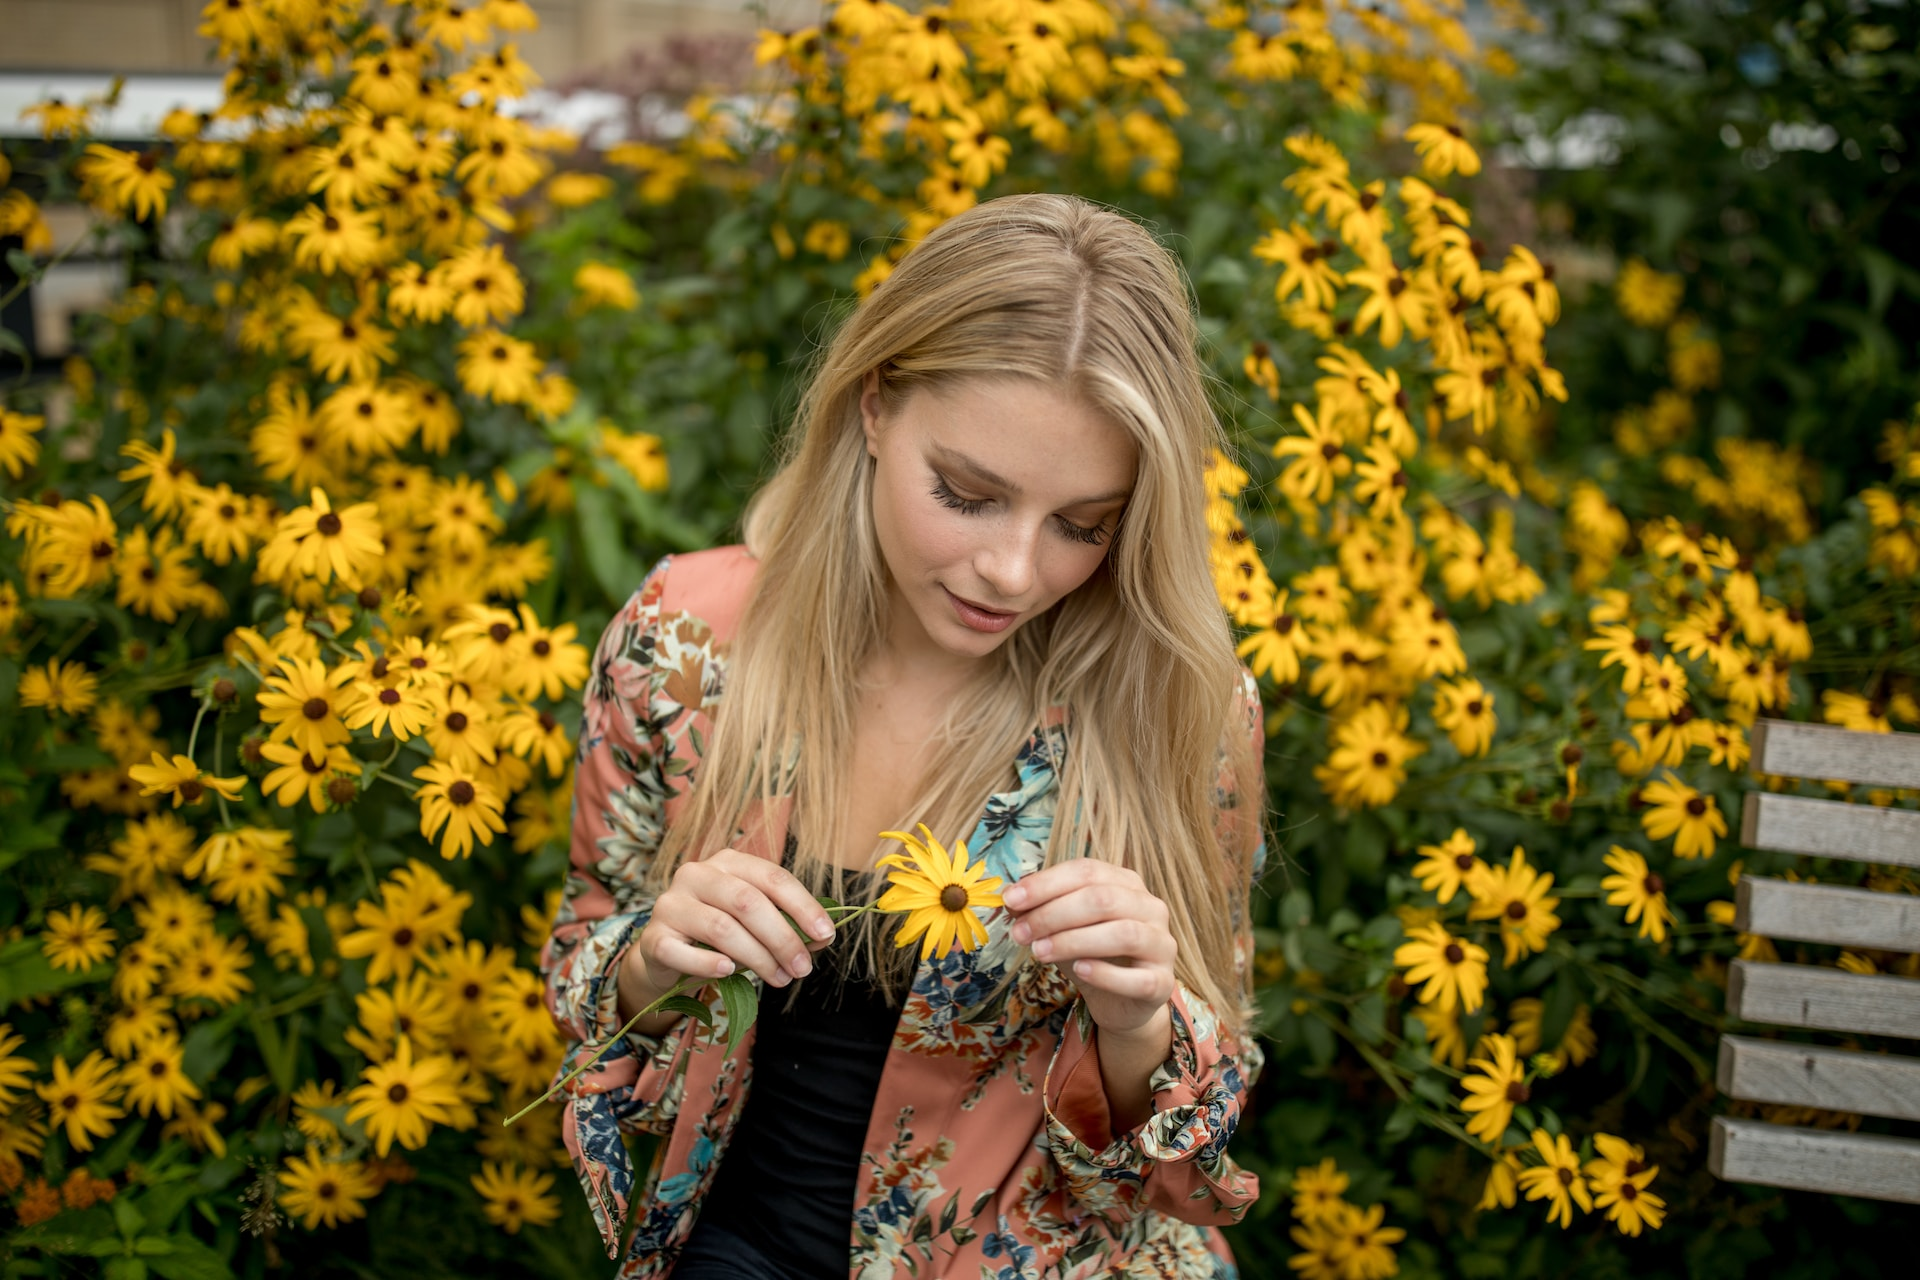
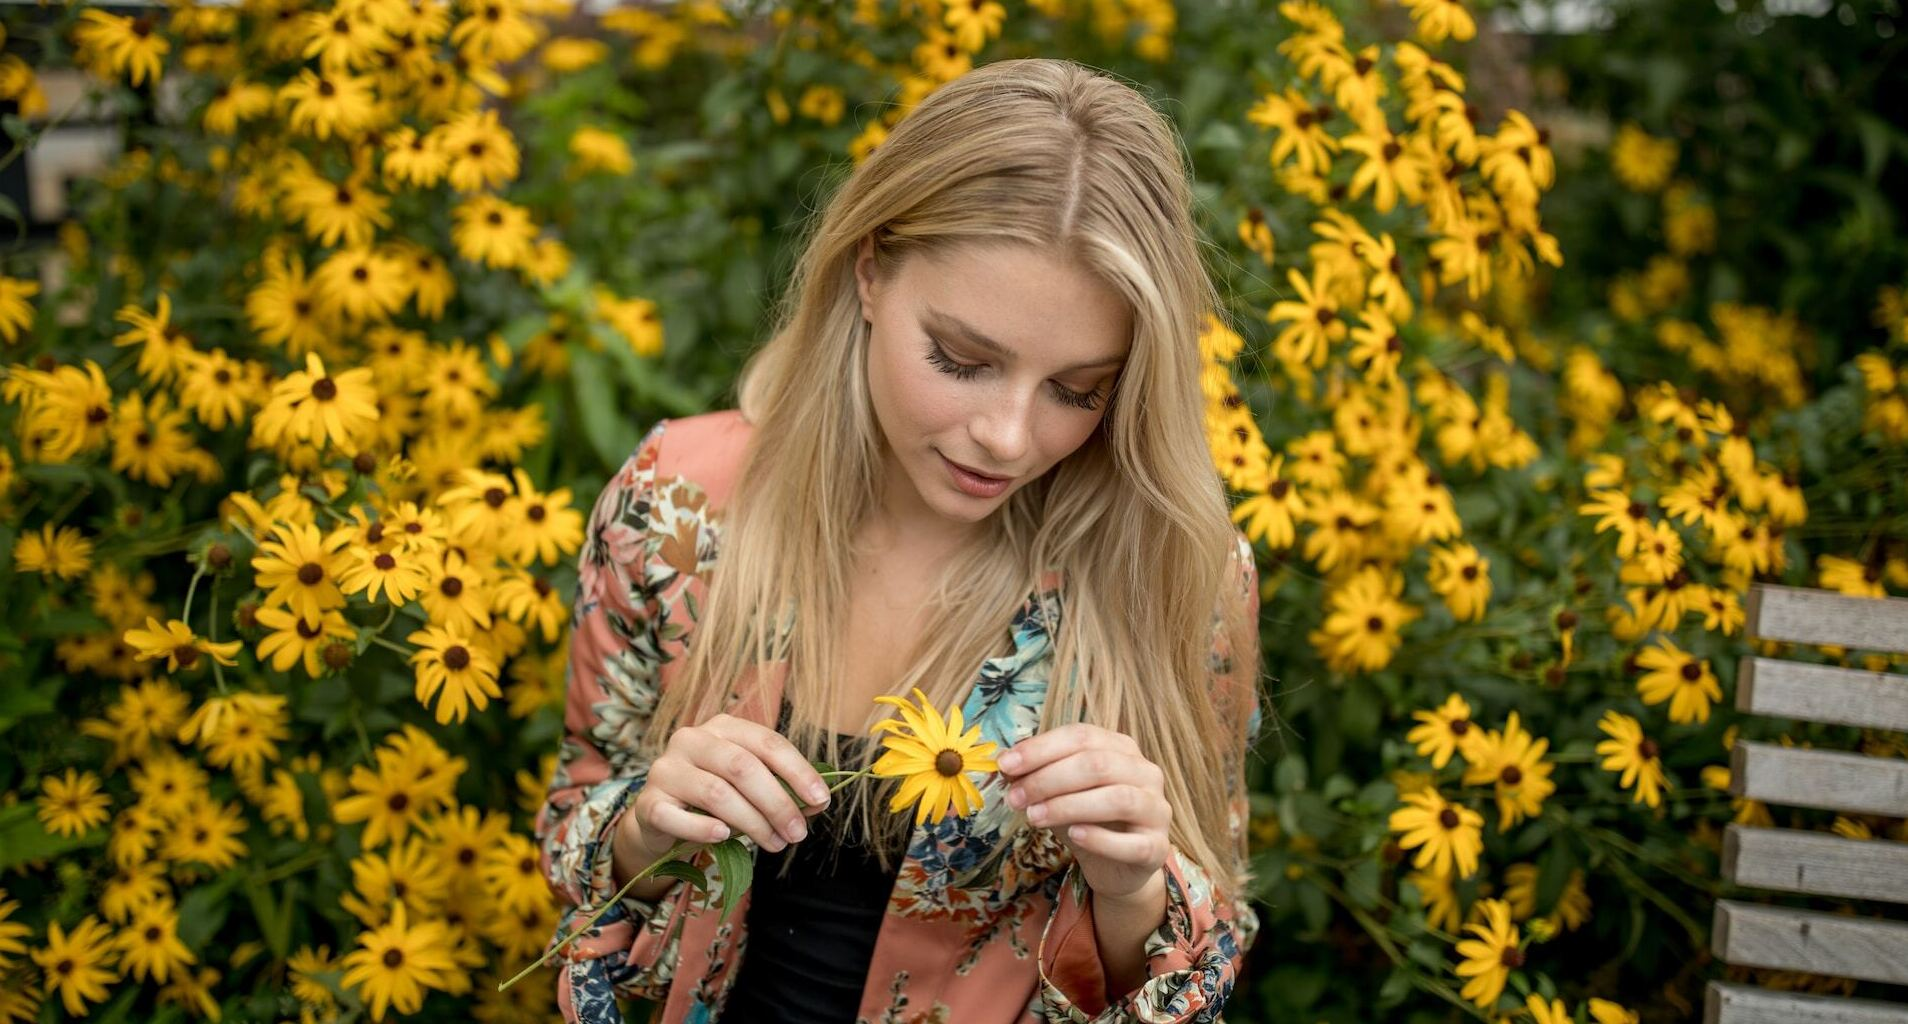
Udacity course post

diff --git a/src/data/blog/secure-coding-for-embedded-systems-udacity/index.md b/src/data/blog/secure-coding-for-embedded-systems-udacity/index.md
@@ -1,0 +1,77 @@
+---
+category: 'blog'
+cover: './cover.jpg'
+title: 'Secure Coding for Embedded Systems'
+description: 'Learn how to build trustworthy products with this'
+date: '2024-11-21'
+tags: ['udacity', 'embedded', 'cybersecurity']
+published: true
+---
+
+<article class="prose lg:prose-lg xl:prose-lg">
+
+I’m proud to announce the release of the Secure Coding for Embedded Systems course on Udacity — a project I had the honor of contributing to as one of the authors, together with Dennis Kengo Oka.
+
+My focus was on some of the most critical and timely areas of embedded system security: Hardening, Supply Chain Risk Management, TLS, and Secure Updates. These aren’t just best practices — they’re quickly becoming regulatory requirements, particularly in light of the European Union’s **Cyber Resilience Act (CRA)** and **Radio Equipment Directive (RED)** updates.
+
+## Why Secure Coding Matters — Now More Than Ever
+Embedded systems and IoT devices are everywhere — in homes, hospitals, factories, vehicles, and cities. But as these systems become more connected, they also become more exposed. In response, the regulatory landscape is evolving quickly to enforce security-by-design at the software level.
+
+Here are two regulations every embedded developer needs to know:
+
+## 📜 1. The EU Cyber Resilience Act (CRA)
+The Cyber Resilience Act, formally adopted by the EU in 2024, introduces mandatory cybersecurity requirements for all products with digital elements — including embedded systems and software.
+
+Key obligations include:
+
+- Products must be secure-by-design and secure-by-default.
+- Must be in place a process to implement vulnerability handling and provide timely security updates.
+- Risk assessments, technical documentation, and conformity declarations will be required.
+
+Non-compliance may result in penalties up to €15 million or 2.5% of global annual turnover.
+
+The CRA is expected to become enforceable by 2026, and it will directly impact how embedded systems are developed, tested, and maintained — especially in critical infrastructure and consumer devices.
+
+## 📻 2. Radio Equipment Directive (RED) – Article 3(3)(d)(e)(f)
+Since 2022, the Radio Equipment Directive (2014/53/EU) has been extended with new cybersecurity requirements under Delegated Regulation (EU) 2022/30, specifically:
+
+- Devices must not harm network functionality or misuse resources.
+- They must protect user privacy and personal data.
+- They must include fraud prevention mechanisms.
+
+These rules apply to wirelessly connected devices (Wi-Fi, Bluetooth, LTE, etc.), including most IoT devices, wearables, smart appliances, and industrial controllers.
+
+🗓 Enforcement begins in August 2025, meaning manufacturers and developers must ensure compliance now — including implementing secure communication protocols and robust update mechanisms.
+
+## What This Course Delivers
+
+The Secure Coding for Embedded Systems course is designed to equip developers with the practical skills needed to meet these real-world security challenges and regulatory expectations. In the modules I authored, you'll learn how to:
+
+🛡 Harden Embedded Systems
+Reduce the attack surface by removing unused components, implementing secure boot, and gaining visibility into vulnerabilities in third-party libraries.
+
+🔗 Manage Supply Chain Risks
+Evaluate and mitigate risks introduced by third-party code and dependencies. You'll build Software Bills of Materials (SBOMs), understand upstream threat vectors, and adopt processes for lifecycle security management.
+
+🔐 TLS and Secure Updates
+Enhance the security of embedded devices by securing communication with TLS, implementing mechanisms for secure over-the-air (OTA) updates, and ensuring the integrity and authenticity of firmware.
+
+## For Developers, Engineers, and Product Teams
+
+Whether you're an embedded developer, systems engineer, or security architect, this course helps you build systems that are compliant, resilient, and future-ready. And more importantly — it empowers you to build trustworthy technology in a world that depends on it.
+
+## Final Thoughts
+The secure-by-design shift isn’t just about risk management — it’s about building confidence, meeting regulatory requirements, and future-proofing your products.
+
+
+👉 <a href="https://www.udacity.com/course/secure-coding-for-embedded-systems--cd13387" target="_blank" rel="noopener noreferrer">Explore the course on Udacity</a>
+
+## 💬 Let’s Connect
+
+If you found this course helpful, or if you want to chat more about how to improve it in the future revisions — I’d love to hear from you.
+
+Feel free to reach out on <a href="https://www.linkedin.com/in/riccardosirigu/" target="_blank" rel="noopener noreferrer">LinkedIn</a>
+
+Always happy to connect with fellow developers, researchers, and security-minded folks.
+
+Stay curious. Stay secure. 🔒🚀

diff --git a/src/data/blog/how-to-write-secure-code/index.md b/src/data/blog/how-to-write-secure-code/index.md
@@ -4,7 +4,7 @@ cover: './cover.jpg'
 title: 'How to write secure code'
 description: 'Maybe you do not need to be a security expert, do you?'
 date: '2021-02-13'
-tags: ['security', 'programming', 'secure coding', 'secure coding best practices']
+tags: ['security', 'programming', 'coding']
 published: true
 ---
 

diff --git a/src/data/blog/exploring-cve-2025-29927-a-hands-on-look-at-authorization-bypass-in-nextjs-middleware/index.md b/src/data/blog/exploring-cve-2025-29927-a-hands-on-look-at-authorization-bypass-in-nextjs-middleware/index.md
@@ -4,7 +4,7 @@ cover: './cover.jpg'
 title: 'Exploring Next.js CVE-2025-29927'
 description: 'A Hands-On Look at Authorization Bypass in Next.js Middleware'
 date: '2025-03-23'
-tags: ['nextjs', 'authorization bypass', 'cybersecurity']
+tags: ['nextjs', 'authorization', 'cybersecurity']
 published: true
 ---
 
